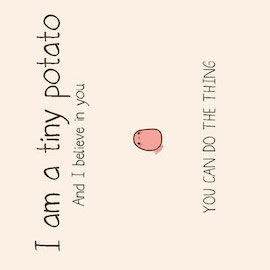
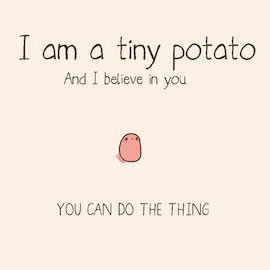
attempts to rotate image

diff --git a/client/index.html b/client/index.html
@@ -20,7 +20,11 @@
 
     <p>You might end up asking yourself that question several times. That's ok, too. Just know that if you decide to quit, you won't be able to learn this stuff until you decide to try again. You're going to have to speak up every single time you don't understand something. You're going to feel embarrassed. To succeed, your will to learn must be stronger than your fear of embarrassment or of hard work.</p>
 
+<div "potato_img" rel="styles">
+
     <img src="cute-potato-tiny-cheer-quote.jpg" class="images">
+
+</div>
 
     <p>At the beginning of the class, make sure you talk to the instructor about your expectations. If your expectations change, or you feel the instructor's expectations change, consider talking to the instructor again. Try starting with, "I think our expectations for this class are different. Can we talk about that?"</p>
 

diff --git a/client/style.css b/client/style.css
@@ -6,6 +6,12 @@
   background: #99CCFF;
 }
 
+potato_img {
+  -ms-transform: rotate(180deg); /* IE 9 */
+  -webkit-transform: rotate(180deg); /* Chrome, Safari, Opera */
+  transform: rotate(180deg);
+}
+
 .images {
   padding: 20px;
 }
